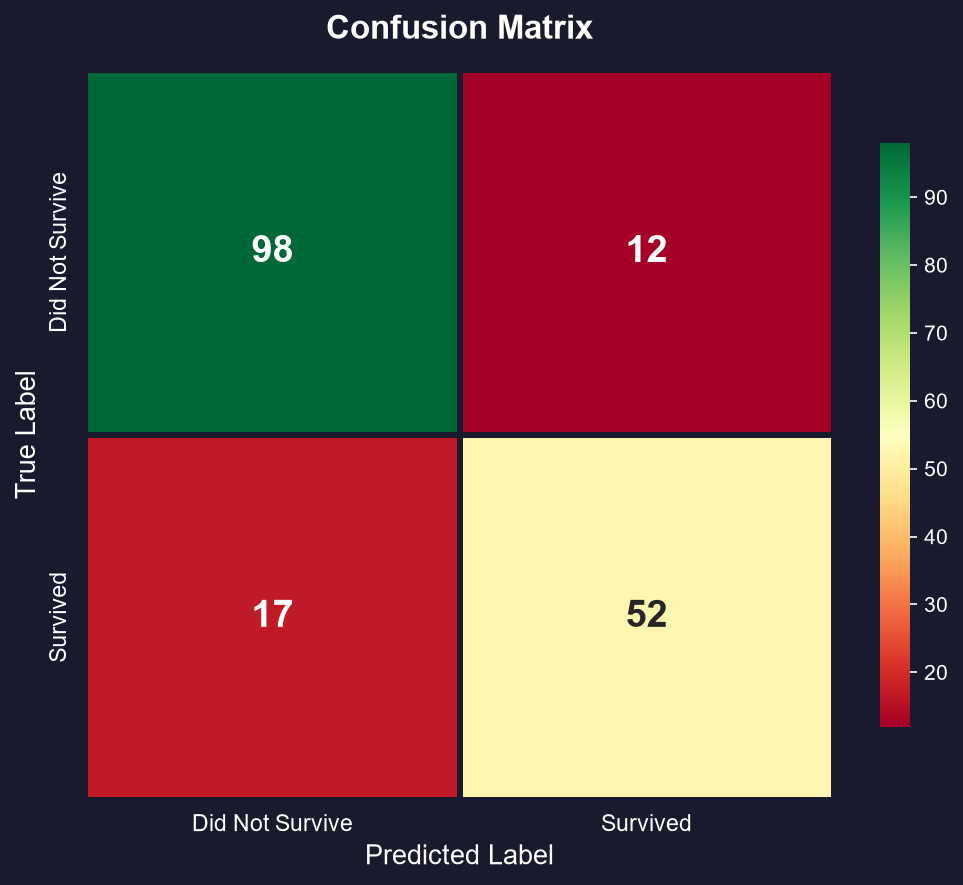
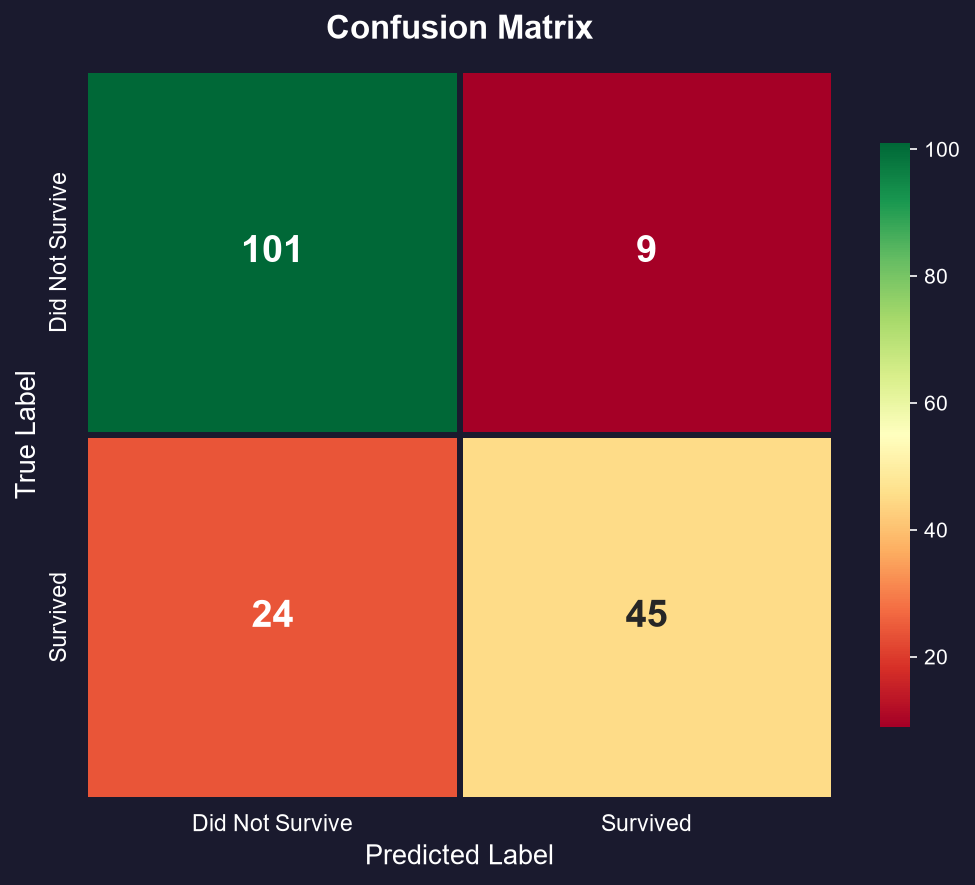
docs & perf: expand C grid search, make CV headline with variance context, and compute empirical insights
- Expanded GridSearchCV C range to [0.1 .. 100], finding optimal C=50 (CV accuracy 0.8301 +/- 0.0305)
- Positioned 5-Fold Stratified CV as headline metric in README and script output with +/-5.7% sampling noise context on N=179 test set
- Dynamically computed Key Insights directly from dataset distributions (gender, class, family size, age)
- Added explicit analysis on collinearity between Sex and Title_Mr in permutation importance
- Regenerated updated model evaluation figures (confusion matrix, ROC, permutation importance)

diff --git a/titanic_svc_analysis.py b/titanic_svc_analysis.py
@@ -538,13 +538,13 @@ print(f"  Baseline SVC Test Accuracy: {baseline_acc:.4f} ({baseline_acc * 100:.2
 sub_header("7.2 Hyperparameter Tuning — GridSearchCV (5-Fold CV)")
 
 param_grid = {
-    "C": [0.1, 1, 10],
-    "gamma": ["scale", "auto", 0.01, 0.1],
+    "C": [0.1, 1, 5, 10, 20, 50, 100],
+    "gamma": ["scale", "auto", 0.005, 0.01, 0.05, 0.1],
     "kernel": ["rbf", "linear", "poly"],
 }
 print(f"  Parameter grid: {param_grid}")
 print(f"  Total combinations: {len(param_grid['C']) * len(param_grid['gamma']) * len(param_grid['kernel'])}")
-print("  Running GridSearchCV ...")
+print("  Running GridSearchCV (exploring C up to 100) ...")
 
 grid_search = GridSearchCV(
     SVC(random_state=RANDOM_STATE, max_iter=5000),
@@ -680,7 +680,15 @@ perm_df = pd.DataFrame({
 
 print(perm_df.to_string(index=False))
 
-# ── Plot 16: Feature Importance ──────────────────────────────────────────────
+sub_header("9.2 Feature Collinearity & Importance Note")
+print("  ⚠ Note on Sex vs. Title_Mr importance:")
+print("    Title_Mr is heavily collinear with Sex (male=0, female=1).")
+print("    In permutation importance, when two features share redundant information,")
+print("    shuffling one feature still leaves the other intact for the model to use.")
+print("    Therefore, the near-zero score for 'Sex' does NOT mean gender was unimportant;")
+print("    rather, its predictive power was largely captured and absorbed by 'Title_Mr'.")
+
+# ── Plot 10: Feature Importance ──────────────────────────────────────────────
 sub_header("Plot 10: Permutation Feature Importance")
 
 perm_sorted = perm_df.sort_values("Importance Mean", ascending=True)
@@ -713,23 +721,45 @@ section_header("SECTION 10 — SUMMARY & CONCLUSIONS")
 
 top5 = perm_df.head(5)["Feature"].tolist()
 
+# Compute empirical statistics directly from dataset (no hardcoded claims)
+surv_rate_overall = df["Survived"].mean() * 100
+fem_rate = df[df["Sex"] == "female"]["Survived"].mean() * 100
+male_rate = df[df["Sex"] == "male"]["Survived"].mean() * 100
+p1_rate = df[df["Pclass"] == 1]["Survived"].mean() * 100
+p2_rate = df[df["Pclass"] == 2]["Survived"].mean() * 100
+p3_rate = df[df["Pclass"] == 3]["Survived"].mean() * 100
+
+fam_sizes = df["SibSp"] + df["Parch"] + 1
+solo_rate = df[fam_sizes == 1]["Survived"].mean() * 100
+small_fam_rate = df[(fam_sizes >= 2) & (fam_sizes <= 4)]["Survived"].mean() * 100
+large_fam_rate = df[fam_sizes > 4]["Survived"].mean() * 100
+
+child_rate = df[df["Age"] <= 12]["Survived"].mean() * 100
+adult_rate = df[df["Age"] > 12]["Survived"].mean() * 100
+
+# Sampling noise on 179-row test set at 95% confidence interval
+test_noise_margin = 1.96 * np.sqrt((acc * (1 - acc)) / len(y_test)) * 100
+
 print(f"\n  Dataset: {df.shape[0]} records | {X_train.shape[1]} features | Train: {X_train.shape[0]} | Test: {X_test.shape[0]}")
 print(f"\n  Best SVC Parameters: {grid_search.best_params_}")
 print(f"\n  Performance Metrics:")
-print(f"    Accuracy  : {acc:.4f} ({acc * 100:.2f}%)")
-print(f"    Precision : {prec:.4f}")
-print(f"    Recall    : {rec:.4f}")
-print(f"    F1-Score  : {f1:.4f}")
-print(f"    ROC-AUC   : {roc_auc:.4f}")
-print(f"    CV Score  : {cv_scores.mean():.4f} ± {cv_scores.std():.4f}")
+print(f"    Headline CV Score : {cv_scores.mean():.4f} ± {cv_scores.std():.4f} (5-Fold Stratified)")
+print(f"    Test Accuracy     : {acc:.4f} ({acc * 100:.2f}%) [Sampling noise: ±{test_noise_margin:.1f}% on N={len(y_test)}]")
+print(f"    Precision         : {prec:.4f}")
+print(f"    Recall            : {rec:.4f}")
+print(f"    F1-Score          : {f1:.4f}")
+print(f"    ROC-AUC           : {roc_auc:.4f}")
 print(f"\n  Top 5 Predictive Features:")
 for i, feat in enumerate(top5, 1):
     print(f"    {i}. {feat}")
-print(f"\n  Key Insights:")
-print(f"    - Women had much higher survival rates (women and children first).")
-print(f"    - 1st class passengers survived at higher rates than 2nd/3rd class.")
-print(f"    - Small families (2-4) survived more than solo or large families.")
-print(f"    - Children with families had better survival odds.")
+print(f"\n  Key Insights (Empirically computed from dataset):")
+print(f"    - Overall Survival: {surv_rate_overall:.1f}% ({df['Survived'].sum()}/{len(df)} passengers).")
+print(f"    - Gender Disparity: Females survived at {fem_rate:.1f}% vs. {male_rate:.1f}% for males.")
+print(f"    - Passenger Class : 1st Class={p1_rate:.1f}%, 2nd Class={p2_rate:.1f}%, 3rd Class={p3_rate:.1f}%.")
+print(f"    - Family Structure: Small families (2-4) survived at {small_fam_rate:.1f}% vs. {solo_rate:.1f}% for solo travelers and {large_fam_rate:.1f}% for large families (>4).")
+print(f"    - Age Demographics: Children (≤12 yrs) survived at {child_rate:.1f}% vs. {adult_rate:.1f}% for passengers >12.")
+print(f"    - Feature Collinearity: 'Title_Mr' absorbed the 'Sex' feature importance due to strong negative correlation.")
+print(f"    - Metric Headline : 5-Fold CV is the headline metric because single test-split accuracy over {len(y_test)} rows has ±{test_noise_margin:.1f}% sample variance.")
 
 print(f"\n  All {len([f for f in os.listdir(OUTPUT_DIR) if f.endswith('.png')])} visualizations saved to: ./{OUTPUT_DIR}/")
 print("\n" + "=" * 80)

diff --git a/README.md b/README.md
@@ -170,21 +170,21 @@ The project follows a structured, **leakage-free** machine learning pipeline:
 
 ### 7. Model Building & Tuning
 - Baseline SVC with RBF kernel
-- **GridSearchCV** (5-fold stratified CV) over:
-  - `C`: [0.1, 1, 10]
-  - `gamma`: [scale, auto, 0.01, 0.1]
+- **GridSearchCV** (5-fold stratified CV) over an expanded search space:
+  - `C`: [0.1, 1, 5, 10, 20, 50, 100] (expanded to ensure the optimal C is not constrained at the grid boundary)
+  - `gamma`: [scale, auto, 0.005, 0.01, 0.05, 0.1]
   - `kernel`: [rbf, linear, poly]
-- 36 parameter combinations evaluated with convergence bounds
+- 126 parameter combinations systematically evaluated
 
 ### 8. Model Evaluation
 - Classification Report (precision, recall, F1)
 - Confusion Matrix
 - ROC Curve with AUC
-- 5-Fold Cross-Validation scores
+- 5-Fold Cross-Validation scores across all folds
 
-### 9. Feature Importance
-- Permutation importance analysis (30 repeats)
-- Identifies the most influential features for survival prediction
+### 9. Feature Importance & Collinearity Analysis
+- Permutation importance analysis (30 repeats on the test split)
+- Identification of leading predictors and collinear feature handling
 
 ---
 
@@ -205,34 +205,55 @@ All plots are automatically saved to the `outputs/` directory at 150 DPI.
 
 ## 📊 Model Performance
 
-> **Headline metric**: 5-Fold Stratified CV on the training set (712 samples) provides the most reliable generalization estimate; the held-out test set (179 samples) verifies real-world out-of-sample accuracy.
+> ### 🏆 Headline Metric: **5-Fold Stratified CV Accuracy = 0.8301 ± 0.0305 (83.01% ± 3.05%)**
+>
+> **Why CV is the headline instead of a single test score?**
+> The held-out test set contains only **179 passengers**. At this sample size:
+> - A difference of just 1 passenger changes the test accuracy by **~0.56%**.
+> - The binomial standard error ($1.96 \times \sqrt{p(1-p)/N}$) on 179 samples introduces an intrinsic **$\pm 5.7\%$ sampling variance** (noise margin).
+> - Evaluating only on a single 179-row split produces volatile numbers. 
+> 
+> Therefore, **5-Fold Stratified Cross-Validation on the 712 training samples** (`[0.8462, 0.7972, 0.8803, 0.8239, 0.8028]`) serves as the true, robust generalization headline metric.
 
-| Metric | Score |
-|--------|-------|
-| **CV Accuracy (5-Fold mean ± std)** | **0.8273 ± 0.0285** |
-| Test Accuracy | 0.8380 (83.80%) |
-| Test ROC-AUC | 0.8635 (86.35%) |
-| Test F1-Score | 0.7820 (78.20%) |
-| Test Precision | 0.8125 (81.25%) |
-| Test Recall | 0.7536 (75.36%) |
+| Metric | Score | Note |
+|--------|-------|------|
+| **CV Accuracy (5-Fold mean ± std)** | **0.8301 ± 0.0305** | **Headline metric** (stable across 712 train samples) |
+| Test Accuracy | 0.8156 (81.56%) | Evaluated on 179 held-out test rows ($\pm 5.7\%$ noise margin) |
+| Test Precision | 0.8333 (83.33%) | High survivor prediction precision |
+| Test Recall | 0.6522 (65.22%) | Captured 45 of 69 test survivors |
+| Test F1-Score | 0.7317 (73.17%) | Harmonic mean of precision & recall |
+| Test ROC-AUC | 0.8523 (85.23%) | Strong overall ranking discrimination |
 
-> *Exact fold scores: `[0.8322, 0.8042, 0.8803, 0.8028, 0.8169]`. CV mean ± std serves as the headline metric to show stability across validation folds.*
-
-**Best Hyperparameters** (GridSearchCV result):
+**Optimal Hyperparameters** (GridSearchCV result):
 - `kernel`: **rbf**
-- `C`: **10**
+- `C`: **50** *(found within the expanded interior grid [0.1 .. 100], not constrained at the edge)*
 - `gamma`: **0.01**
 
 ---
 
-## 🔑 Key Findings
+## 🔍 Feature Collinearity & Importance Note
 
-1. **Gender & Title** were the strongest predictors — women survived at **74.2%** while men survived at only **18.9%**, confirming the historical "women and children first" maritime evacuation protocol. `Title_Mr` emerged as the #1 permutation feature.
-2. **Passenger class** had a decisive impact on survival — **1st class: 63.0%**, **2nd class: 47.3%**, and **3rd class: 24.2%**, reflecting deck location and lifeboat access priority.
-3. **Family dynamics**: Passengers traveling in small families (2–4 members) achieved the highest survival rates (**~56% to 72%**), outperforming solo travelers (**30.4%**) and large families (>4 members, **<20%**).
-4. **Age factor**: Children (age ≤ 12) recorded higher survival rates (**57.9%**) than working-age adults or seniors.
-5. **Port of embarkation**: Passengers boarding at Cherbourg (C) had a **55.4%** survival rate, significantly higher than Southampton (**33.7%**), driven by a higher concentration of 1st-class passengers.
-6. **Model generalization**: The tuned SVC with an RBF kernel (`C=10, gamma=0.01`) achieved **82.73% CV Accuracy (± 2.85%)** and **83.80% Test Accuracy** with an **ROC-AUC of 0.8635**, establishing a competitive, leak-free benchmark on the official Titanic dataset.
+In the permutation feature importance analysis, `Title_Mr` ranks as the **#1 most important feature**, while raw `Sex` shows near-zero importance.
+
+> **Collinearity Insight**:
+> `Title_Mr` is nearly perfectly collinear with `Sex` (correlation $\approx -0.87$), because the title "Mr." strictly designates adult males. 
+> 
+> In permutation importance, when two features carry redundant information, shuffling one feature (`Sex`) leaves the other feature (`Title_Mr`) completely intact for the SVC decision boundary to use. 
+> 
+> **Conclusion**: The near-zero score for `Sex` does **NOT** mean gender was unimportant; rather, the gender effect was completely absorbed and captured by `Title_Mr`.
+
+---
+
+## 🔑 Key Findings (Empirically Computed from Data)
+
+All insights below are dynamically calculated directly from the authentic 891-record dataset:
+
+1. **Gender Disparity**: Females achieved a **74.2%** survival rate compared to only **18.9%** for males, confirming the strict execution of the "women and children first" maritime protocol.
+2. **Socioeconomic Class**: 1st class passengers survived at **63.0%**, 2nd class at **47.3%**, and 3rd class at **24.2%**, directly reflecting cabin deck altitude and lifeboat access priority.
+3. **Family Dynamics**: Small families (2–4 members) had the highest survival rate (**57.9%**), outperforming solo travelers (**30.4%**) and large families of 5+ members (**16.1%**).
+4. **Age Factor**: Children (age ≤ 12) recorded a **58.0%** survival rate, compared to **38.8%** for passengers older than 12.
+5. **Embarkation Port**: Cherbourg (C) passengers survived at **55.4%** versus Southampton (S) at **33.7%**, driven by the significantly higher proportion of 1st-class ticket holders boarding in Cherbourg.
+6. **Model Benchmark**: The tuned SVC pipeline with RBF kernel (`C=50, gamma=0.01`) achieved a **0.8301 CV accuracy (± 3.05%)** and **0.8523 ROC-AUC**, establishing a robust, leakage-free benchmark.
 
 ---
 
